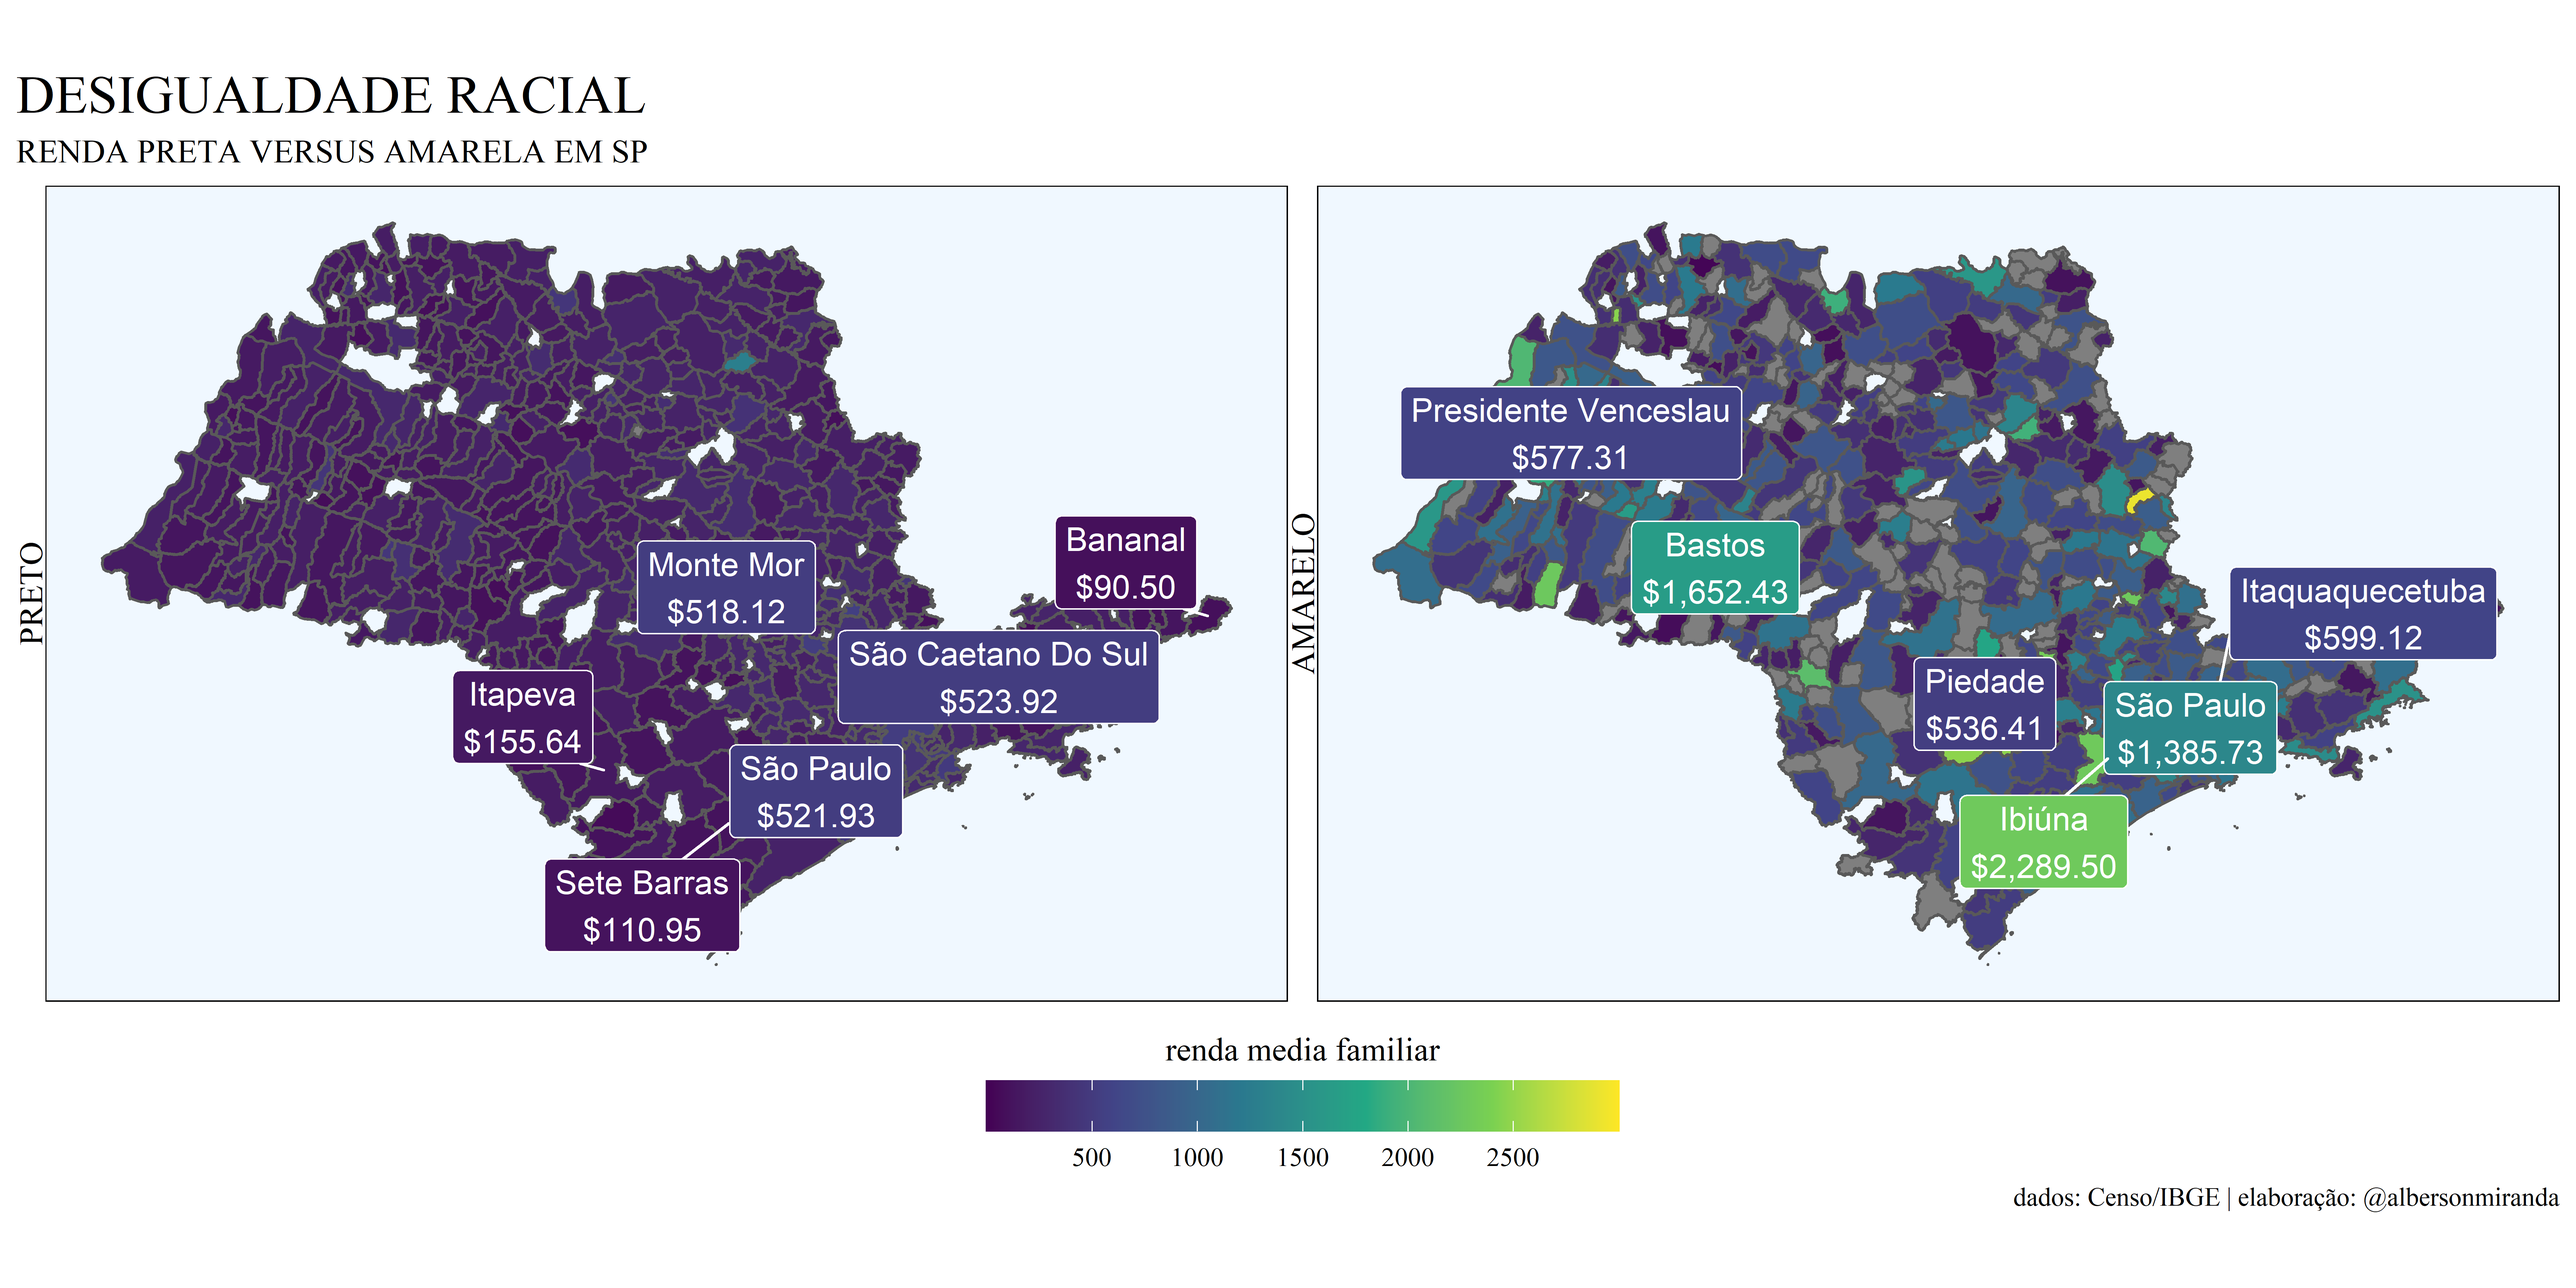
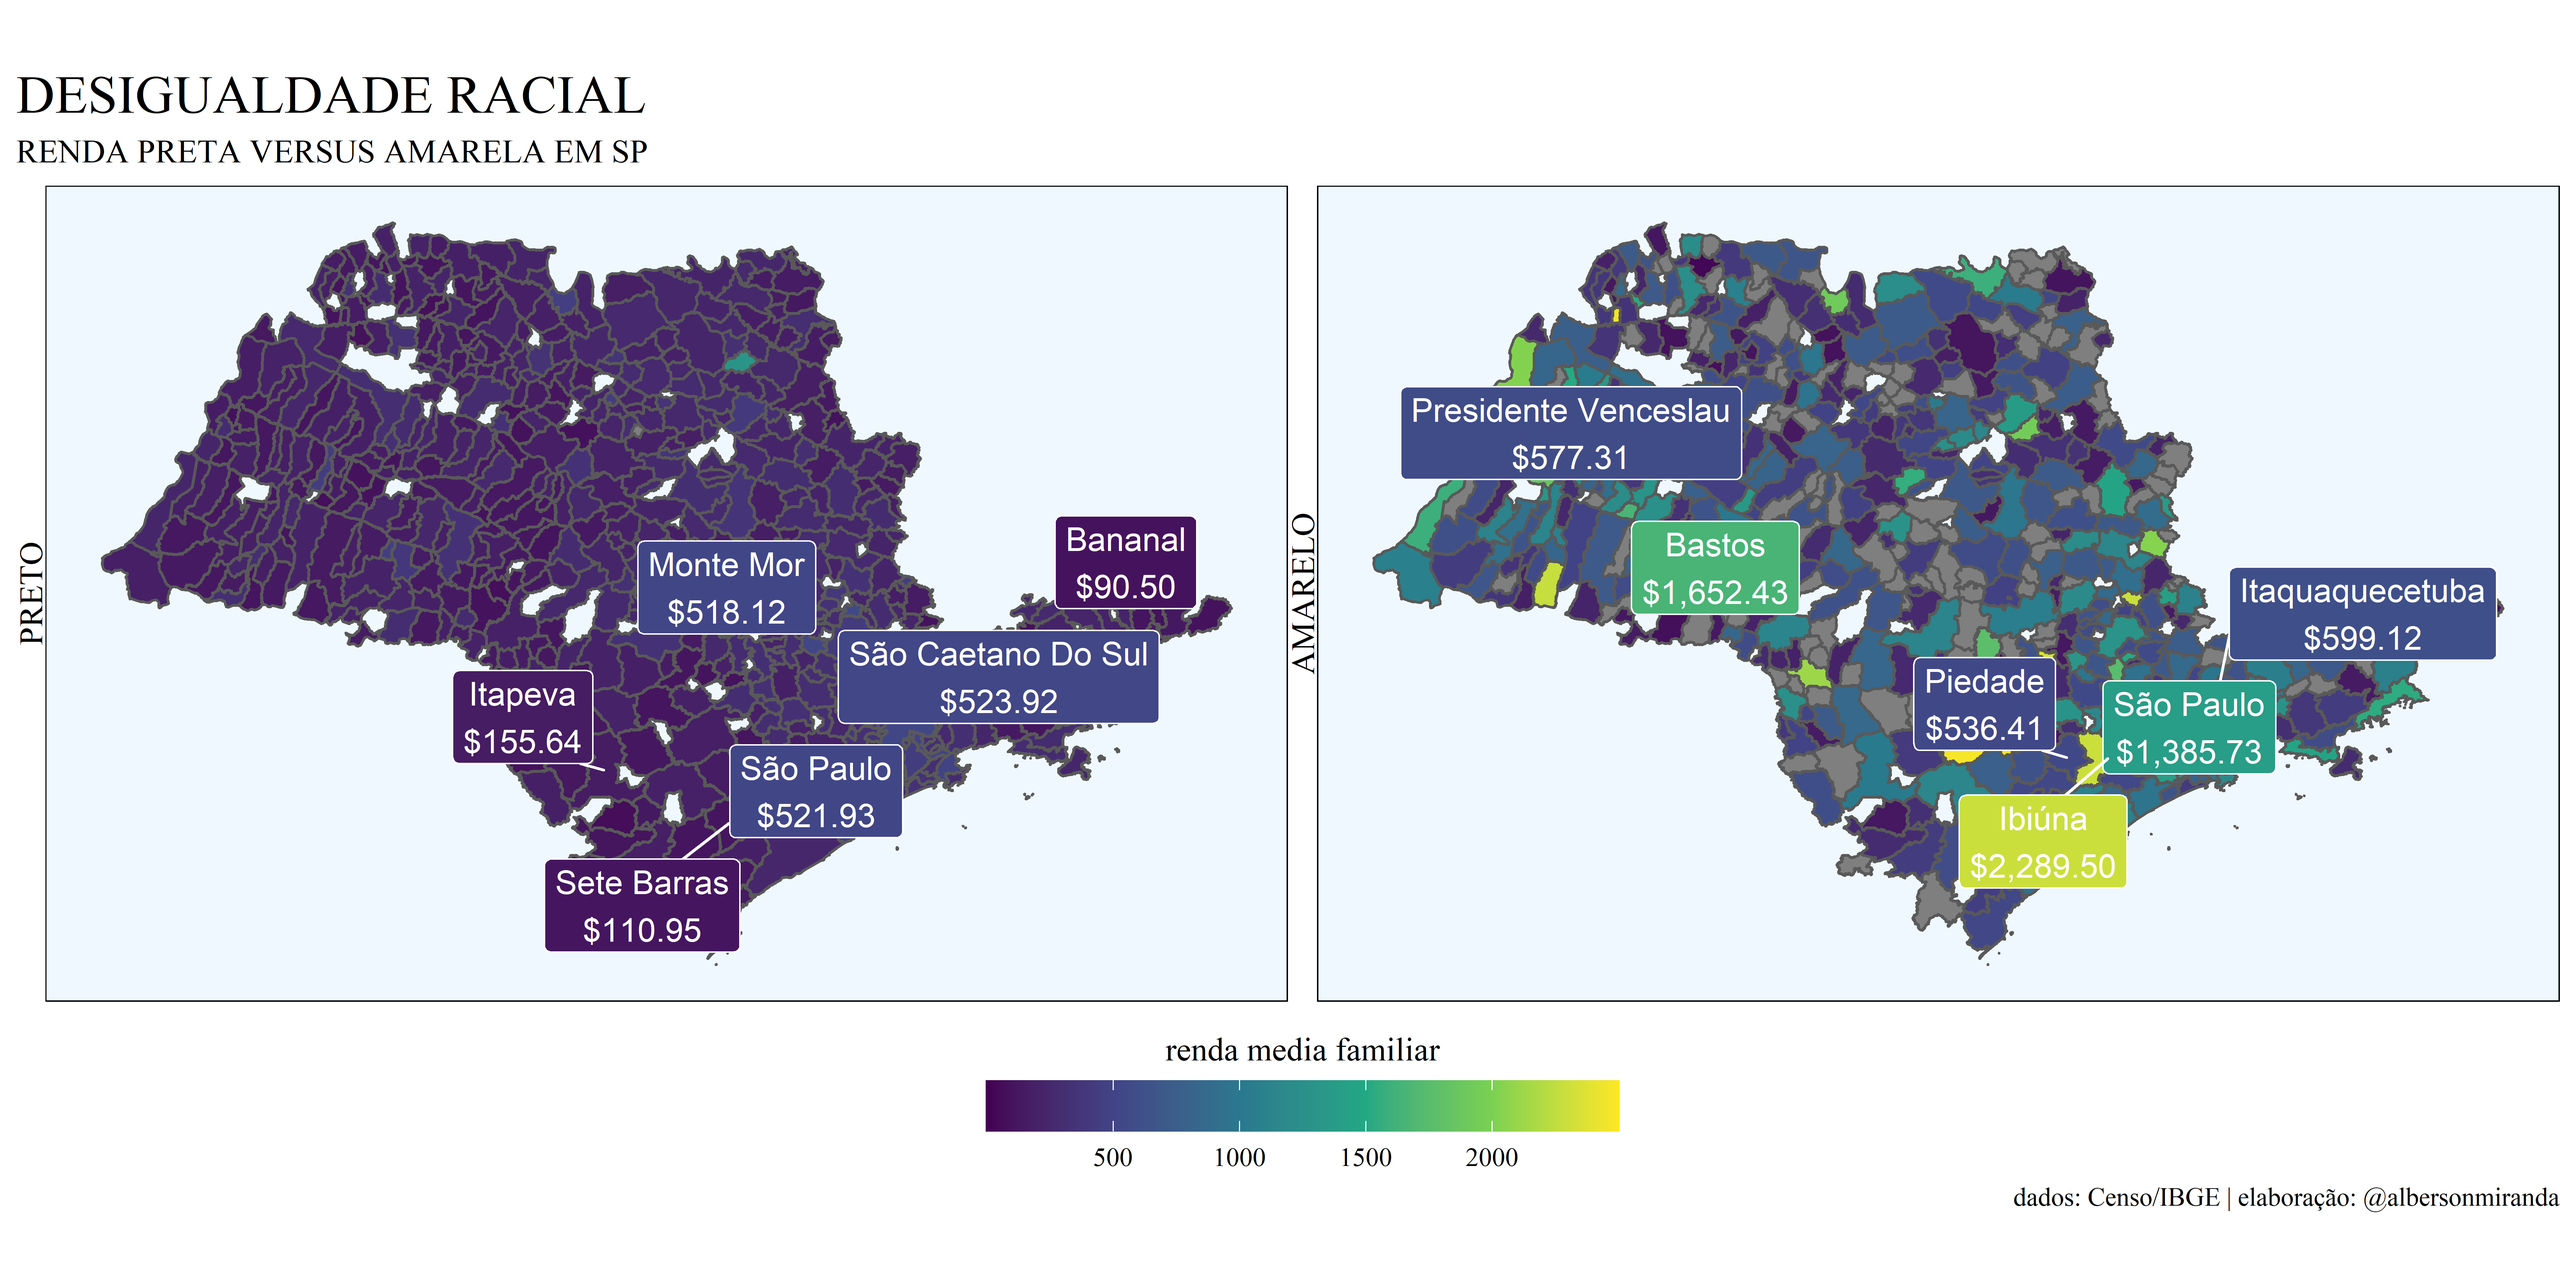
atualização README

diff --git a/README.md b/README.md
@@ -33,7 +33,7 @@ Paulo, exibindo os 3 municípios de maior renda e os 3 de menor:
 ``` r
 library(desigualdade)
 
-r_m("SP", etnia = c("PRETO", "AMARELO"), n_nomes = 3, p_nomes = 1000,
+r_m("SP", etnia = c("PRETO", "AMARELO"), n_nomes = 3, p_nomes = 1000, to = 2000,
     caption = "dados: Censo/IBGE | elaboração: @albersonmiranda",
     title = "DESIGUALDADE RACIAL",
     subtitle = "RENDA PRETA VERSUS AMARELA EM SP")
@@ -48,7 +48,7 @@ final:
 library(patchwork)
 
 r_m("RJ", etnia = c("PRETO", "BRANCO", "INDIGENA"),
-    n_nomes = 2, p_nomes = 1000,
+    n_nomes = 2, p_nomes = 1000, from = 200, to = 1000, by = 200,
     caption = "dados: Censo/IBGE | elaboração: @albersonmiranda",
     title = "DESIGUALDADE RACIAL",
     subtitle = "RENDA BRANCA VERSUS PRETA E INDIGENA NO RIO DE JANEIRO") +
